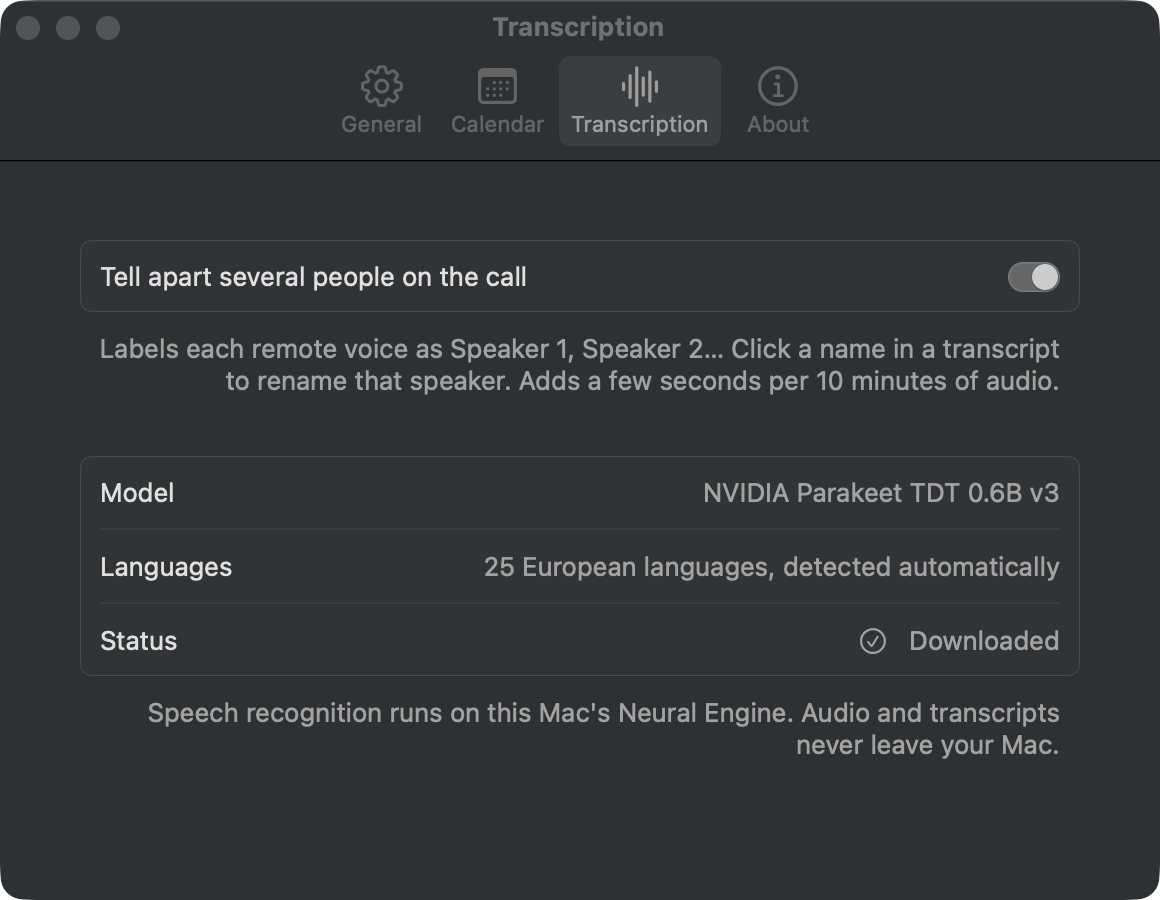
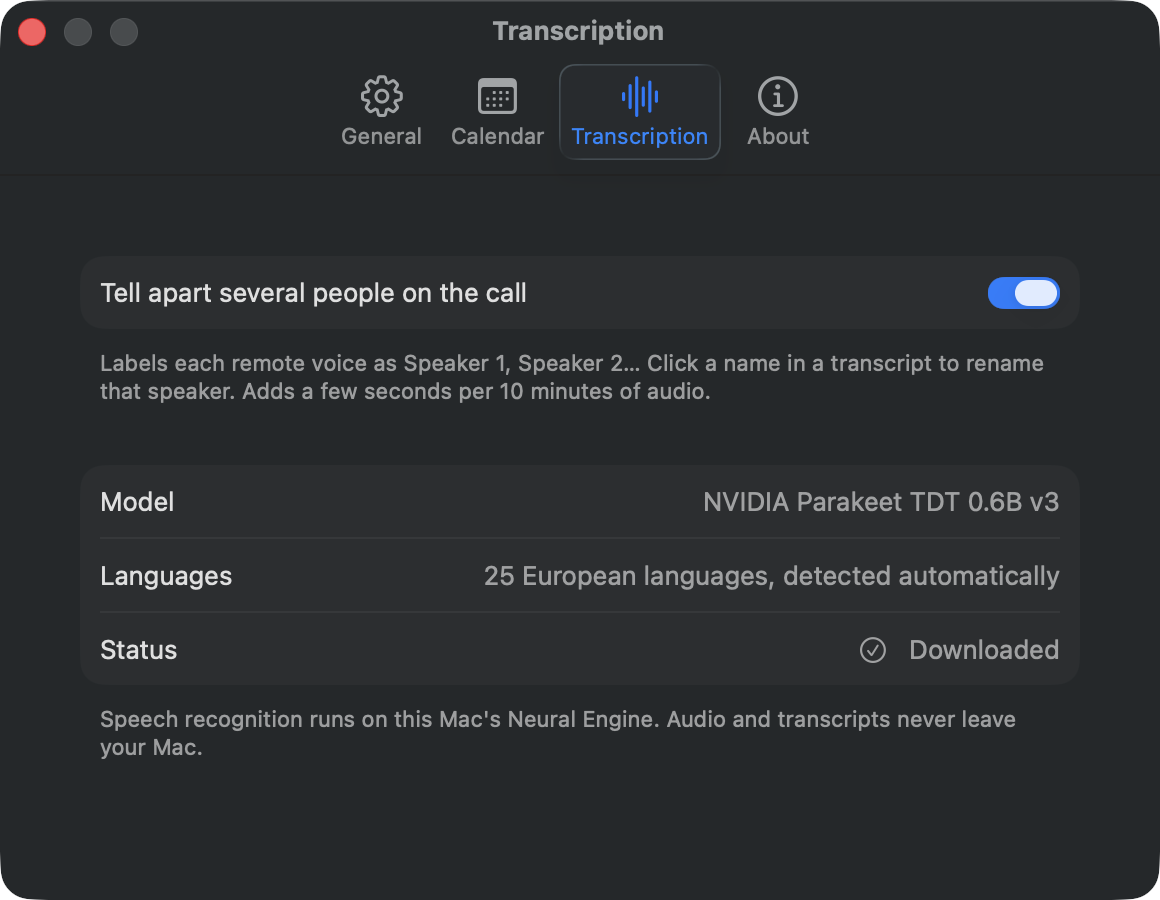
Show the redesigned app in the screenshots
The transcript, menu bar panel and settings screenshots now match
Undertone 1.1.

diff --git a/docs/index.html b/docs/index.html
@@ -247,7 +247,7 @@
         <span class="num">1</span>
         <h3>Start recording</h3>
         <p>One click in the menu bar, or in the reminder you get when a calendar meeting starts.</p>
-        <div class="step-visual"><img src="screenshot-menu-bar.png" width="366" alt="The Undertone menu bar panel with a Start Recording button"></div>
+        <div class="step-visual"><img src="screenshot-menu-bar.png" width="320" alt="The Undertone menu bar panel with a Start Recording button"></div>
       </div>
       <div class="step">
         <span class="num">2</span>

diff --git a/README.md b/README.md
@@ -27,7 +27,7 @@ Start and stop recording from the menu bar. When you stop, the transcript is mad
 button to press.
 
 <p align="center">
-  <img src="docs/screenshot-menu-bar.png" width="360" alt="The Undertone menu bar panel with a Start Recording button">
+  <img src="docs/screenshot-menu-bar.png" width="320" alt="The Undertone menu bar panel with a Start Recording button">
   &nbsp;
   <img src="docs/screenshot-settings.png" width="460" alt="Transcription settings: speaker separation and the on-device Parakeet model">
 </p>
